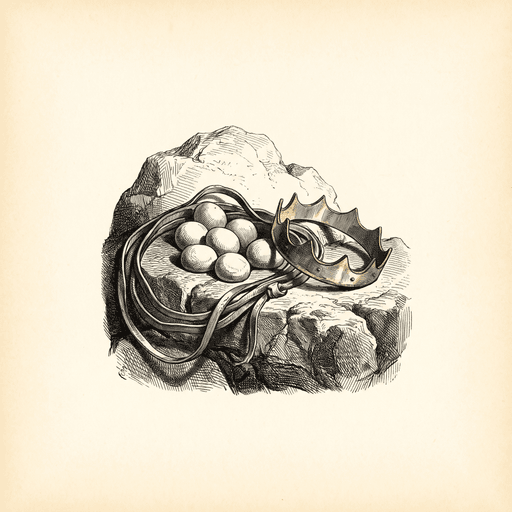
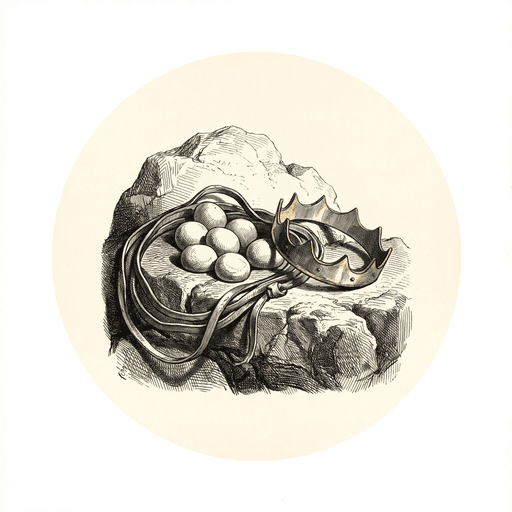
feat: transparent artwork, chapter questions, real progress figures

diff --git a/shrink-assets.js b/shrink-assets.js
@@ -17,6 +17,7 @@ const sharp = require('sharp');
 
 const ASSETS = path.join(__dirname, 'assets');
 const BACKUP = path.join(ASSETS, '_originals');
+const FLAT_BACKUP = path.join(ASSETS, '_with-background');
 
 /** Way node art — displayed at 112pt, so 512px covers 3x screens comfortably. */
 const NODES = [
@@ -64,8 +65,89 @@ async function shrink(file, width) {
   );
 }
 
+/**
+ * Strip the paper background from an engraving.
+ *
+ * These are circular vignettes printed on cream stock, so dropped into a card
+ * they show as a circle inside a square of not-quite-matching cream. Flood
+ * filling the paper away from the edges lets the engraving sit on whatever
+ * colour the container is, which also means it works in dark mode.
+ *
+ * The centre is protected: without that, any gap in the vignette's edge lets
+ * the fill leak inward and hollow out the illustration's own highlights, which
+ * are the same cream as the paper.
+ */
+async function stripBackground(file) {
+  const src = path.join(ASSETS, file);
+  if (!fs.existsSync(src)) { console.log(`  skip   ${file} (not found)`); return; }
+
+  const backup = path.join(FLAT_BACKUP, file);
+  if (fs.existsSync(backup)) { console.log(`  done   ${file} (already transparent)`); return; }
+
+  const { data, info } = await sharp(src)
+    .ensureAlpha()
+    .raw()
+    .toBuffer({ resolveWithObject: true });
+
+  const { width: w, height: h, channels: ch } = info;
+  const cx = w / 2;
+  const cy = h / 2;
+  const protectedR2 = (Math.min(w, h) * 0.40) ** 2;   // squared, to avoid sqrt
+
+  // The cream stock sits at roughly luminance 240, so the “definitely paper”
+  // line has to sit below that or the background survives at low opacity
+  // rather than disappearing. Everything between the two is feathered.
+  const HARD = 236;   // at or above this, fully transparent
+  const SOFT = 200;   // below this, ink — left alone
+
+  const lum = (i) => 0.299 * data[i] + 0.587 * data[i + 1] + 0.114 * data[i + 2];
+
+  const seen = new Uint8Array(w * h);
+  const stack = [];
+
+  // Seed from every border pixel.
+  for (let x = 0; x < w; x++) { stack.push(x, x + (h - 1) * w); }
+  for (let y = 0; y < h; y++) { stack.push(y * w, w - 1 + y * w); }
+
+  while (stack.length) {
+    const p = stack.pop();
+    if (seen[p]) continue;
+    seen[p] = 1;
+
+    const x = p % w;
+    const y = (p - x) / w;
+
+    // Never touch the middle of the illustration.
+    if ((x - cx) ** 2 + (y - cy) ** 2 < protectedR2) continue;
+
+    const i = p * ch;
+    const l = lum(i);
+    if (l < SOFT) continue;                    // ink: stop here, edge found
+
+    // Feather across the soft band so edges are not jagged.
+    data[i + 3] = l >= HARD ? 0 : Math.round(((HARD - l) / (HARD - SOFT)) * 255);
+
+    if (x > 0) stack.push(p - 1);
+    if (x < w - 1) stack.push(p + 1);
+    if (y > 0) stack.push(p - w);
+    if (y < h - 1) stack.push(p + w);
+  }
+
+  const before = fs.statSync(src).size;
+  const out = await sharp(data, { raw: { width: w, height: h, channels: ch } })
+    .png({ compressionLevel: 9 })
+    .toBuffer();
+
+  fs.renameSync(src, backup);
+  fs.writeFileSync(src, out);
+
+  const after = fs.statSync(src).size;
+  console.log(`  ok     ${file.padEnd(28)} ${(before / 1e3).toFixed(0)}KB -> ${(after / 1e3).toFixed(0)}KB`);
+}
+
 (async () => {
   fs.mkdirSync(BACKUP, { recursive: true });
+  fs.mkdirSync(FLAT_BACKUP, { recursive: true });
 
   console.log('Way node art -> 512px');
   for (const n of NODES) await shrink(`${n}.png`, 512);
@@ -75,6 +157,9 @@ async function shrink(file, width) {
 
   console.log('\nScreen headers -> 512px');
   for (const n of HEADERS) await shrink(`${n}.png`, 512);
+
+  console.log('\nRemoving paper backgrounds');
+  for (const n of [...NODES, ...HEADERS]) await stripBackground(`${n}.png`);
 
   const total = fs.readdirSync(ASSETS)
     .filter((f) => /\.(png|jpg)$/i.test(f))
